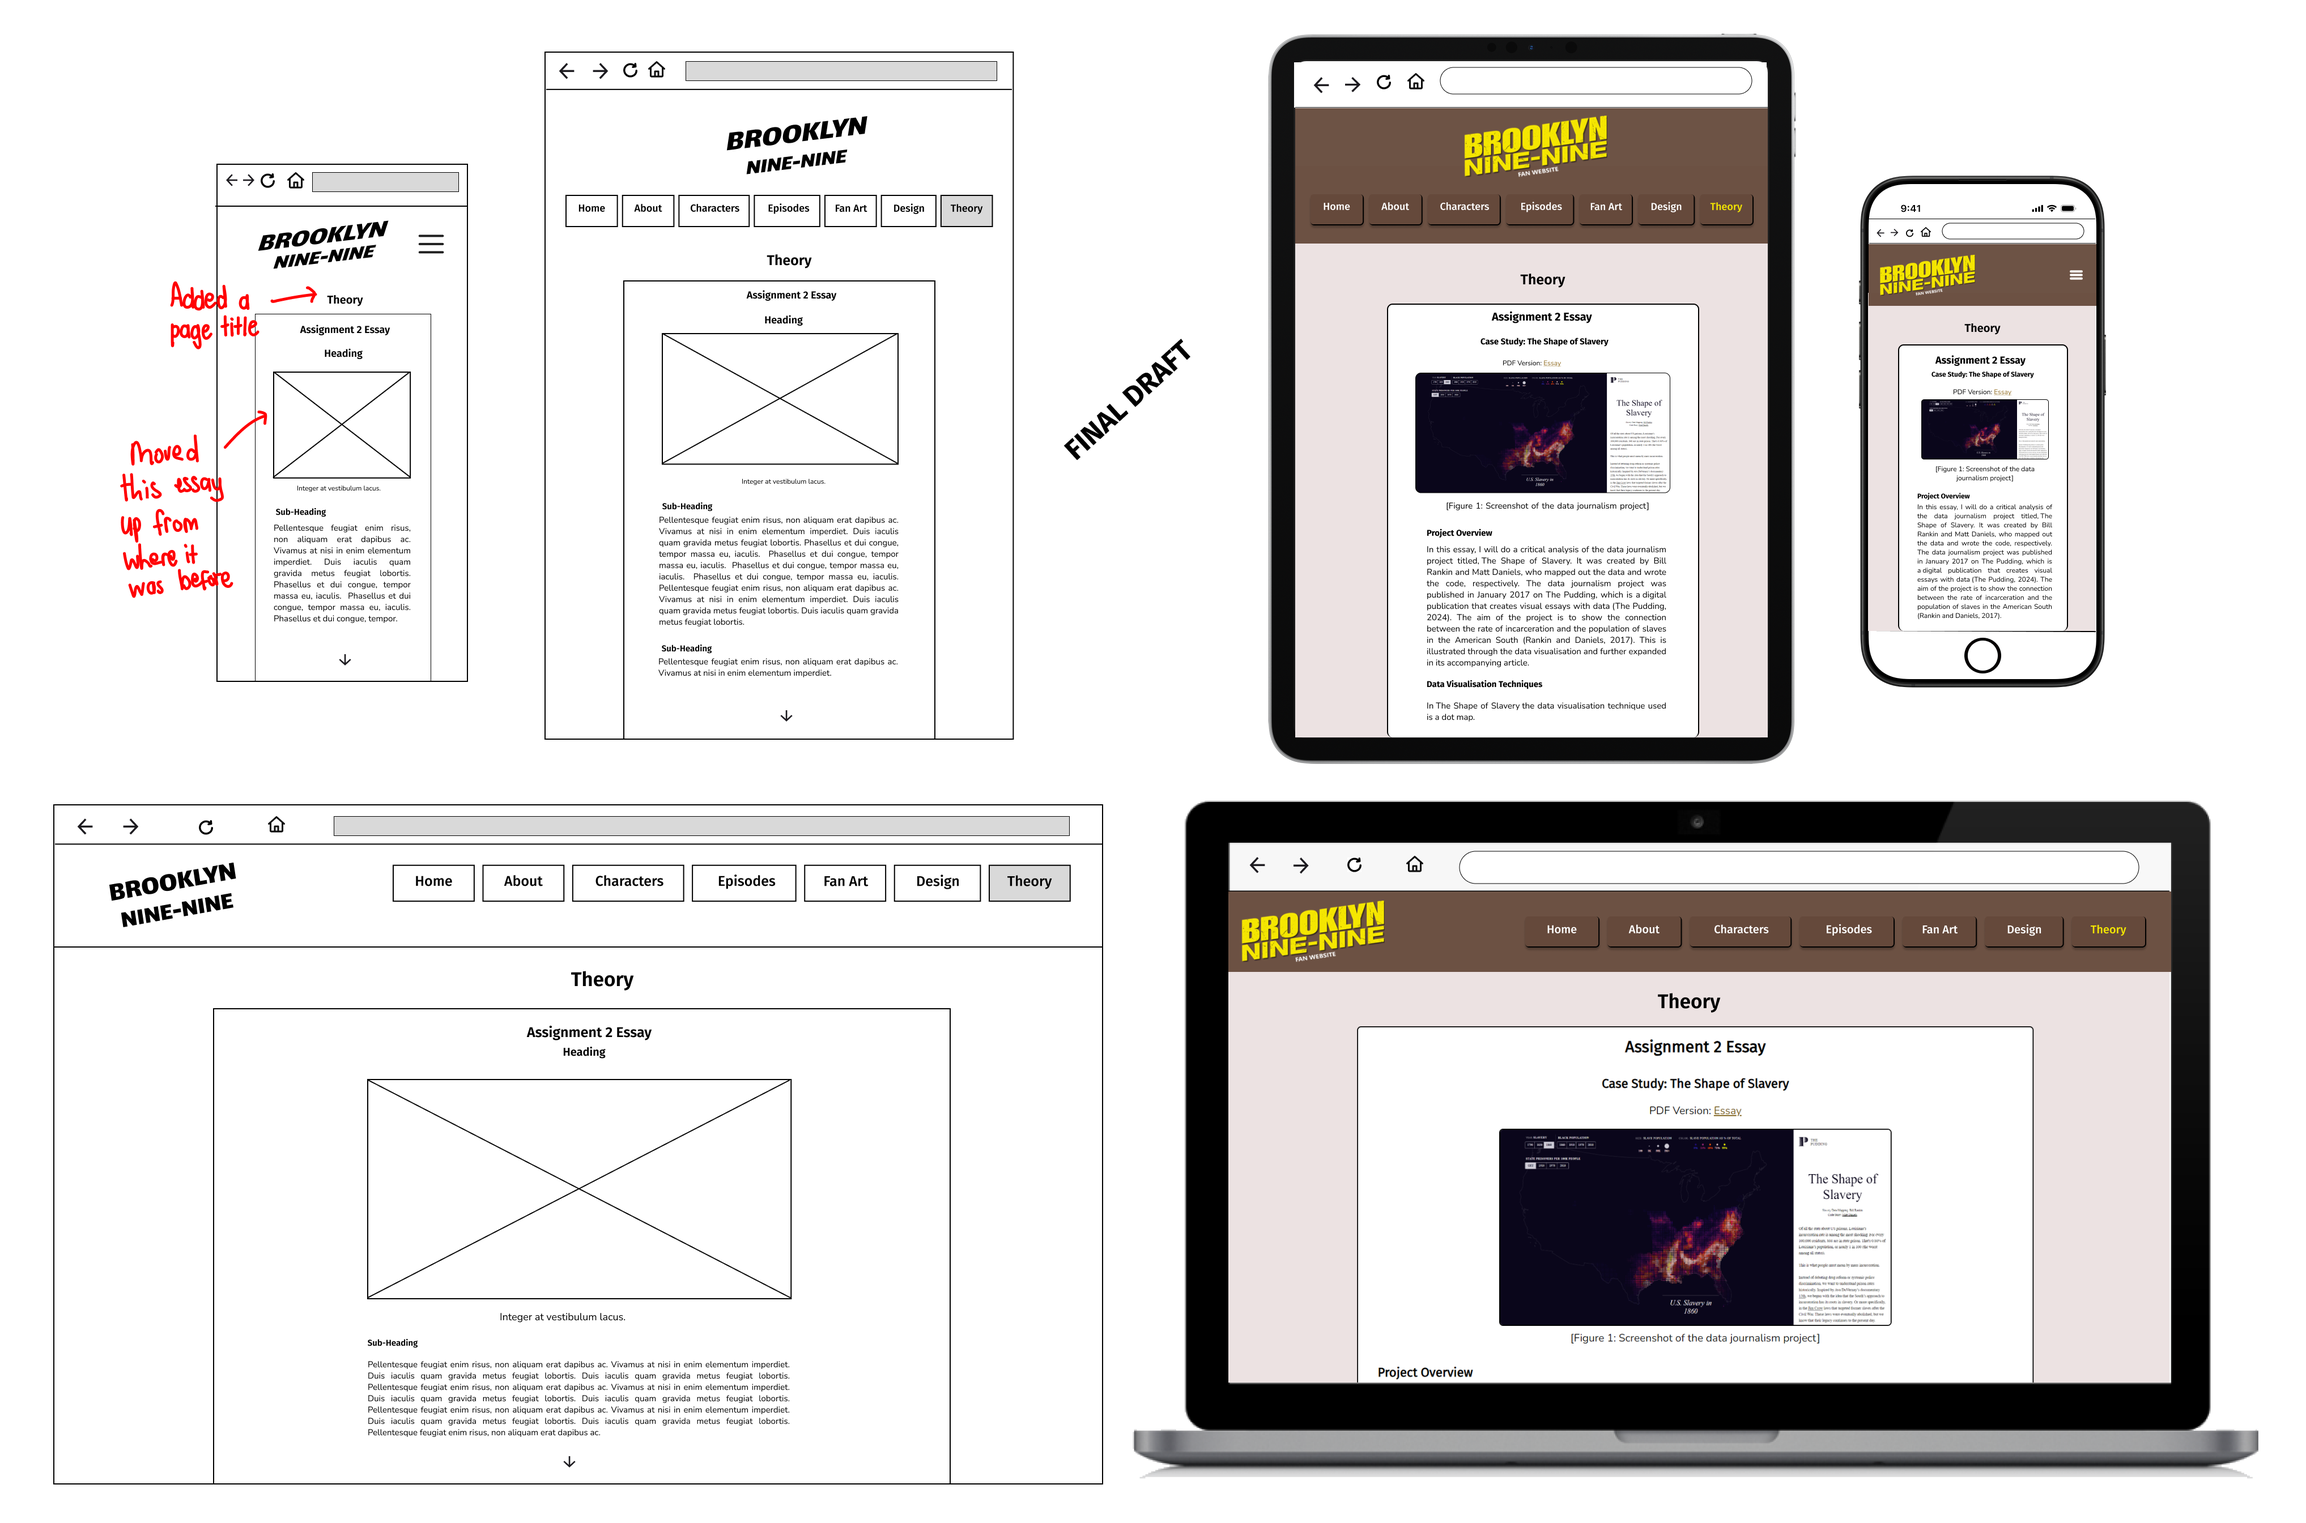
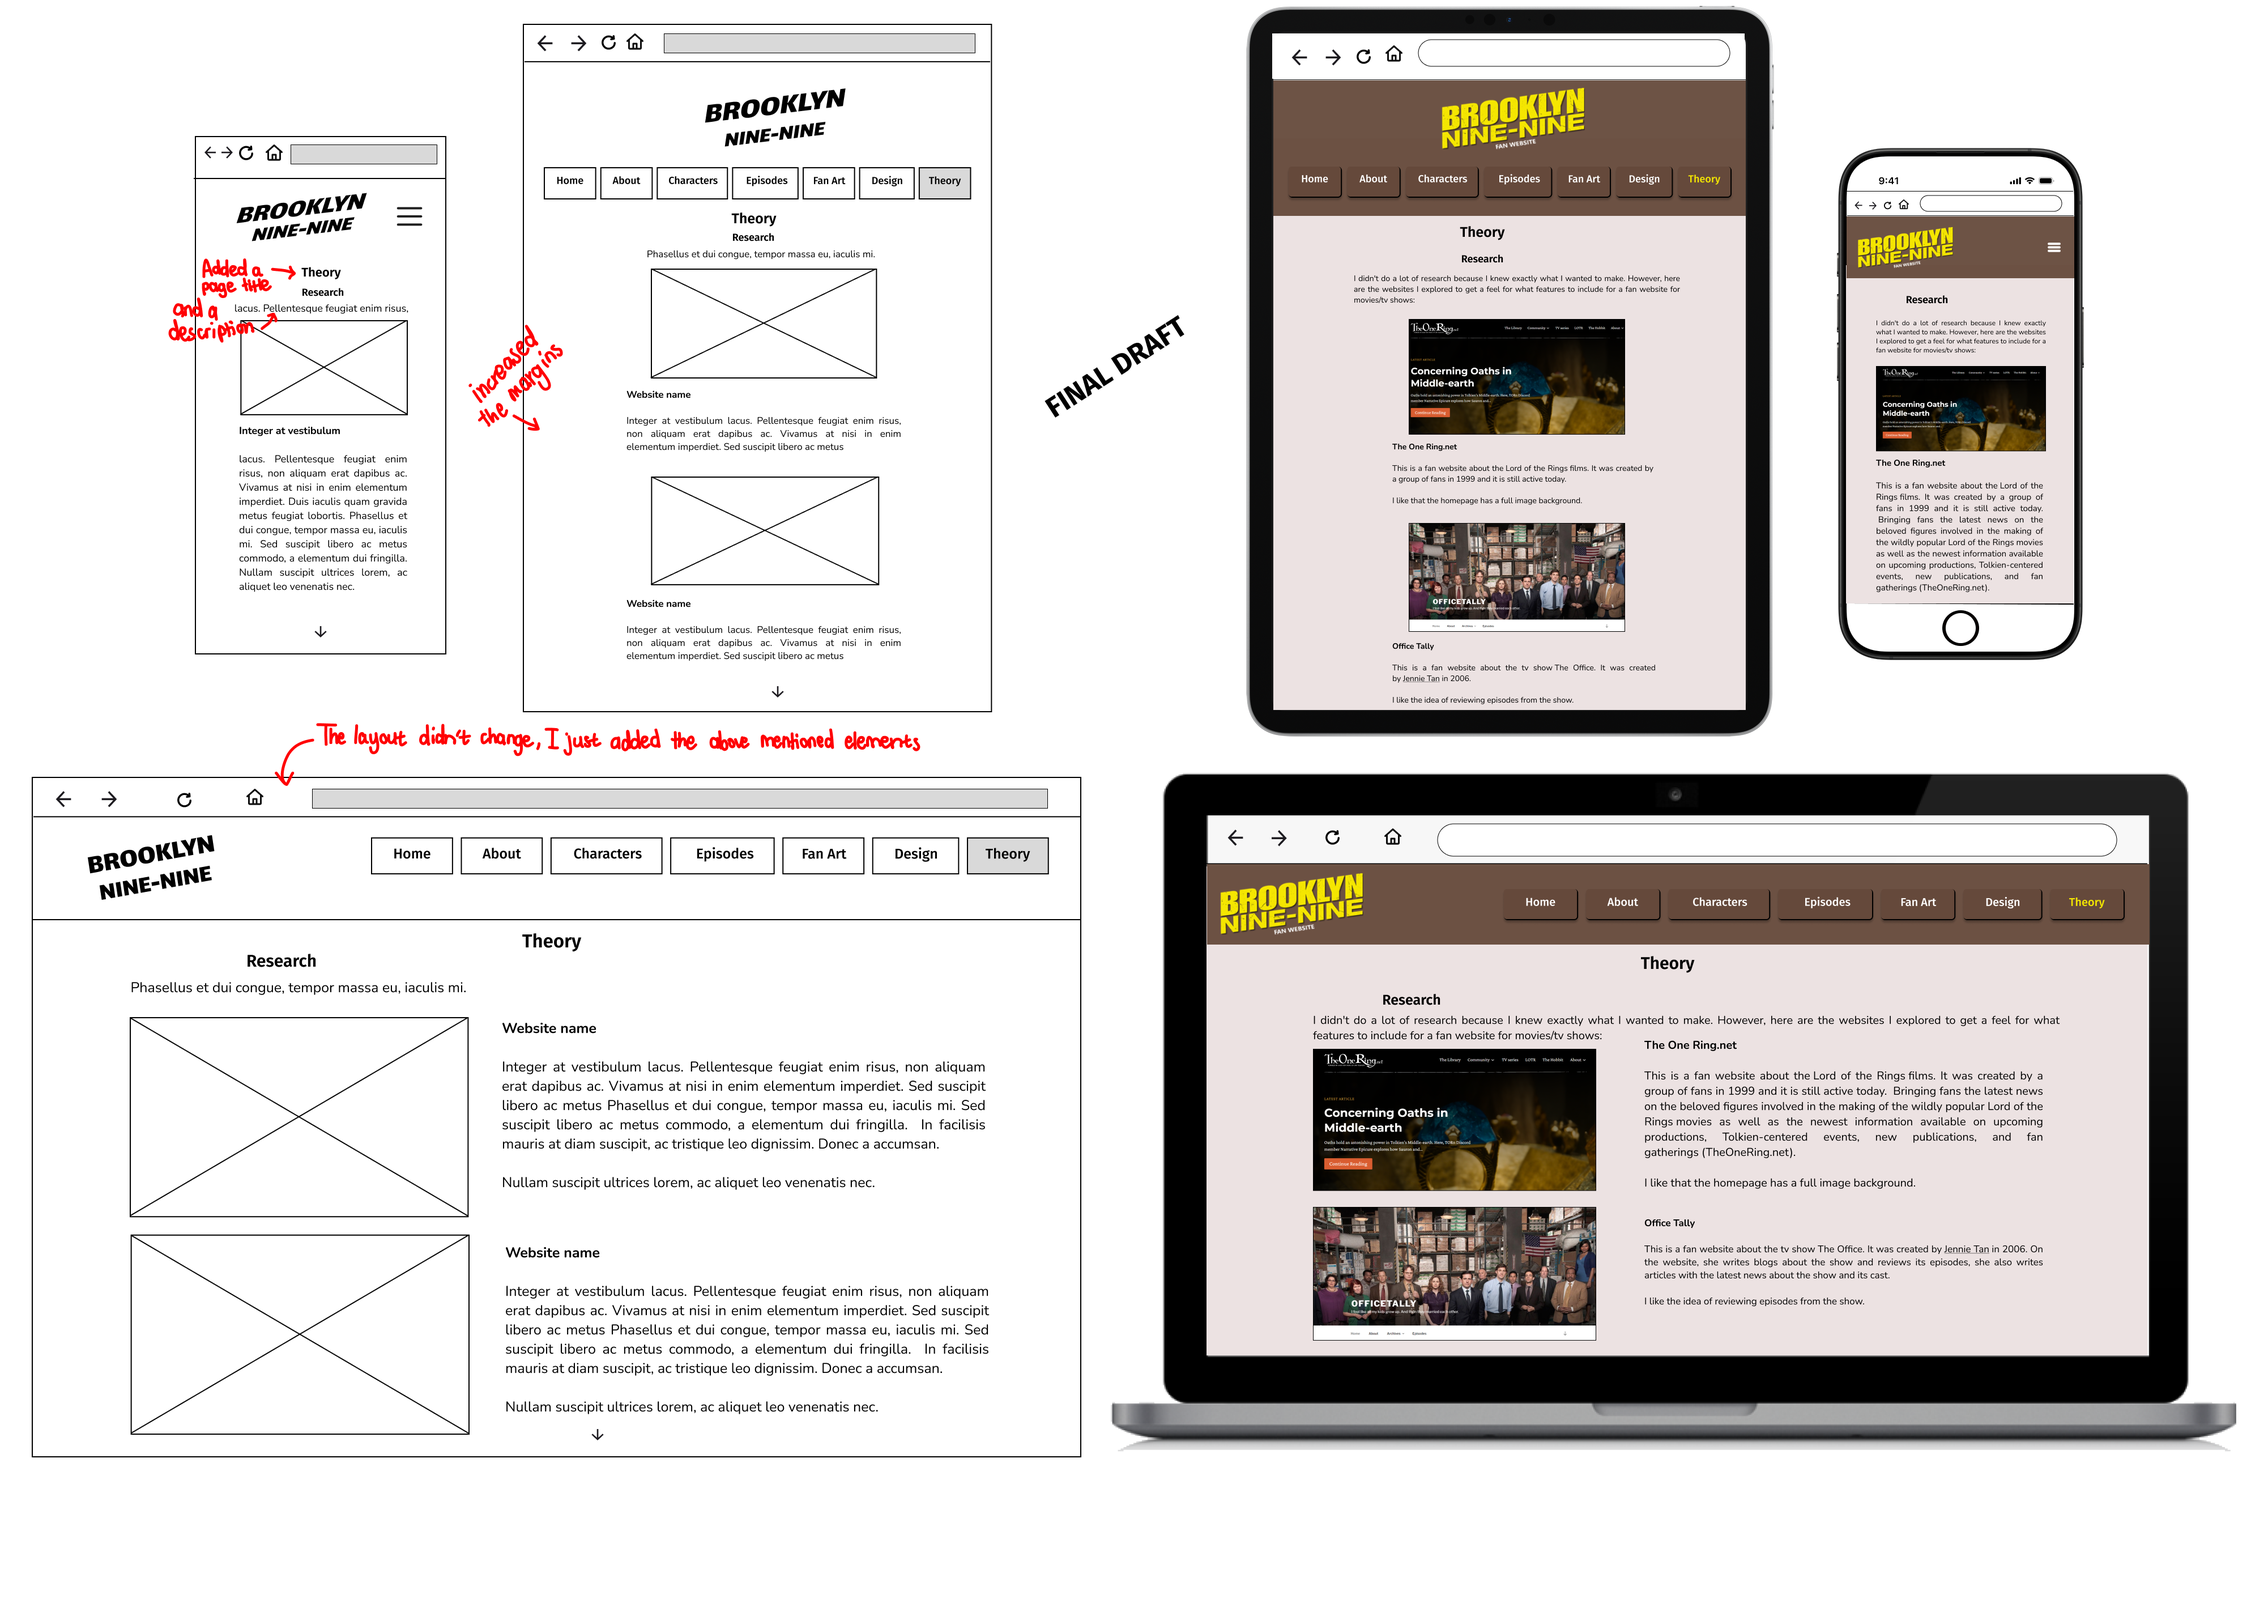
Edits

diff --git a/theory/theory.html b/theory/theory.html
@@ -33,11 +33,48 @@
 
     <main>
         <h1 class="p-name">Theory</h1>  
+        <article class="theory">        
+            <h2 class="up">Research</h2>
+            <p class="desc">I didn't do a lot of research because I knew exactly what I wanted to make. However, here are the websites I explored to get a feel for what features to include 
+                for a fan website for movies/tv shows:</p>
+            
+            <section class="theory-info">
+            <a class="u-url" href="https://www.theonering.net/" target="_blank"><img class="image" src="theory-images/One Ring.png" alt="A screenshot from the One Ring website"></a>
+            <div>
+            <h4 class="info">The One Ring.net</h4>
+            <p class="info">This is a fan website about the <cite>Lord of the Rings</cite> films. It was created by a group of fans in 1999 and it is still active today. <q>Bringing fans the 
+                latest news on the beloved figures involved in the making of the wildly popular <cite>Lord of the Rings</cite> movies as well as the newest information available on upcoming 
+                productions, Tolkien-centered events, new publications, and fan gatherings</q> (TheOneRing.net).</p>
+            <p class="info">I used the feature of the homepage having an image as a background.</p>
+            </div>
+            </section>
+    
+            <section class="theory-info">
+            <a class="u-url" href="https://www.officetally.com/" target="_blank"><img class="image" src="theory-images/Office Tally.png" alt="A screenshot from the Office Tally website"></a>
+            <div>
+            <h4 class="info">Office Tally</h4>
+            <p class="info">This is a fan website about the tv show <cite>The Office</cite>. It was created by <a class="h-card" href="https://www.imdb.com/name/nm5683584/" target="_blank">Jennie Tan</a> in 
+                2006. On the website, she writes blogs about the show and reviews its episodes, she also writes articles with the latest news about the show and its cast.</p>
+            <p class="info">I used the idea of reviewing episodes from the show. For my website, I only reviewed/wrote about my favourite episode.</p>
+            </div>
+            </section>
+       
+            <section class="theory-info">
+            <a class="u-url" href="https://www.the-leaky-cauldron.org/" target="_blank"><img class="image" src="theory-images/The Leaky Cauldron.png" alt="A screenshot from The Leaky Cauldron website"></a>
+            <div>
+            <h4 class="info">The Leaky Cauldron.org</h4>
+            <p class="info">This is a fan website is about the <cite>Harry Potter</cite> franchise. It was created in 2000 and is still active today. It is <q>an all-purpose site for the Harry 
+                Potter/Wizarding World enthusiast, a destination for fan entertainment and discussion</q>(The Leaky Cauldron.org).</p>  
+            <p class="info">I used the idea of the images, colours and fonts matchong the theme of the franchise. I did this by using blue and yellow, which are colours used in Brooklyn Nine-Nine 
+                posters and other promotional content.</p>
+            </div>  
+            </section>  
+            <hr>
+            </article> 
 
         <article class="essay">
             <h2 class="heading">Assignment 2 Essay</h2>
 
-            <h3 class="heading">Case Study: The Shape of Slavery</h3>
             <p class="heading">PDF Version: <a href="Zandile Gebuza - Essay.pdf" target="_blank" aria-label="Link to essay PDF">Essay</a></p> 
 
             <figure><img class="figure" src="theory-images/1.png" alt="screenshot of the data journalism project">
@@ -231,44 +268,6 @@
                 <a href="https://pudding.cool/" target="_blank" aria-label="Link to source">https://pudding.cool/</a>.[Accessed 29 Aug. 2024].</li>
             </ul>
             </article>
-
-            <article class="theory">        
-                <h2 class="up">Research</h2>
-                <p class="desc">I didn't do a lot of research because I knew exactly what I wanted to make. However, here are the websites I explored to get a feel for what features to include 
-                    for a fan website for movies/tv shows:</p>
-                
-                <section class="theory-info">
-                <a class="u-url" href="https://www.theonering.net/" target="_blank"><img class="image" src="theory-images/One Ring.png" alt="A screenshot from the One Ring website"></a>
-                <div>
-                <h4 class="info">The One Ring.net</h4>
-                <p class="info">This is a fan website about the <cite>Lord of the Rings</cite> films. It was created by a group of fans in 1999 and it is still active today. <q>Bringing fans the 
-                    latest news on the beloved figures involved in the making of the wildly popular <cite>Lord of the Rings</cite> movies as well as the newest information available on upcoming 
-                    productions, Tolkien-centered events, new publications, and fan gatherings</q> (TheOneRing.net).</p>
-                <p class="info">I used the feature of the homepage having an image as a background.</p>
-                </div>
-                </section>
-        
-                <section class="theory-info">
-                <a class="u-url" href="https://www.officetally.com/" target="_blank"><img class="image" src="theory-images/Office Tally.png" alt="A screenshot from the Office Tally website"></a>
-                <div>
-                <h4 class="info">Office Tally</h4>
-                <p class="info">This is a fan website about the tv show <cite>The Office</cite>. It was created by <a class="h-card" href="https://www.imdb.com/name/nm5683584/" target="_blank">Jennie Tan</a> in 
-                    2006. On the website, she writes blogs about the show and reviews its episodes, she also writes articles with the latest news about the show and its cast.</p>
-                <p class="info">I used the idea of reviewing episodes from the show. For my website, I only reviewed/wrote about my favourite episode.</p>
-                </div>
-                </section>
-           
-                <section class="theory-info">
-                <a class="u-url" href="https://www.the-leaky-cauldron.org/" target="_blank"><img class="image" src="theory-images/The Leaky Cauldron.png" alt="A screenshot from The Leaky Cauldron website"></a>
-                <div>
-                <h4 class="info">The Leaky Cauldron.org</h4>
-                <p class="info">This is a fan website is about the <cite>Harry Potter</cite> franchise. It was created in 2000 and is still active today. It is <q>an all-purpose site for the Harry 
-                    Potter/Wizarding World enthusiast, a destination for fan entertainment and discussion</q>(The Leaky Cauldron.org).</p>  
-                <p class="info">I used the idea of the images, colours and fonts matchong the theme of the franchise. I did this by using blue and yellow, which are colours used in Brooklyn Nine-Nine 
-                    posters and other promotional content.</p>
-                </div>  
-                </section>  
-                </article> 
 
         <article class="essay">
             <h2 class="heading">Critical Reflection Essay</h2>

diff --git a/styles/theory.css b/styles/theory.css
@@ -19,6 +19,12 @@ main{
     font-size: 1.1rem;
 }
 
+.essay{
+    margin-left: 6rem;
+    margin-right: 6rem;
+    margin-bottom: 4rem;
+}
+
 .menu{
     display: none;
     padding-bottom: 0.75rem;
@@ -57,24 +63,10 @@ h4{
     background-color: rgba(104, 84, 73, 1);
 }
 
-.essay{
-    margin-right: 1rem;
-    padding-left: 2rem;
-    padding-right: 2rem;
-    background-color: white;
-    border: 0.125rem solid black;
-    border-radius: 0.4rem;
-}
-
 .theory{
-    margin-top: 4rem;
     margin-bottom: 4rem;
     padding-left: 2rem;
     padding-right: 3rem;
-    padding-bottom: 2rem;
-    background-color: white;
-    border: 0.125rem solid black;
-    border-radius: 0.4rem;
 }
 
 .heading, .up{
@@ -157,7 +149,6 @@ figcaption{
     width: 28.5rem;
     height: 16rem;
     display: block;
-    margin-left: 2rem;
     margin-bottom: 1rem;
 }
 

diff --git a/scripts/form.js b/scripts/form.js
@@ -24,7 +24,7 @@ function enterEmail(){
   if (/^([a-zA-Z0-9_\.\-])+\@(([a-zA-Z0-9\-])+\.)+([a-zA-Z0-9]{2,4})+$/.test(userEmail)){
     validEmail.checked = true; 
   } else{
-    alert("You did not enter a valid email format!");  
+    alert("You did not enter a valid email!");  
     validEmail.checked = false; 
   //Removes the user's incorrect input
     document.getElementById("email").value = "";

diff --git a/styles/episodes.css b/styles/episodes.css
@@ -86,11 +86,8 @@ video{
 }
 
 section, .graph{
-    border: 0.125rem solid black;
-    background-color: white;
     margin-left: 10rem;
     margin-right: 10rem;
-    margin-bottom: 5rem;
     border-radius: 0.4rem;
 }
 
